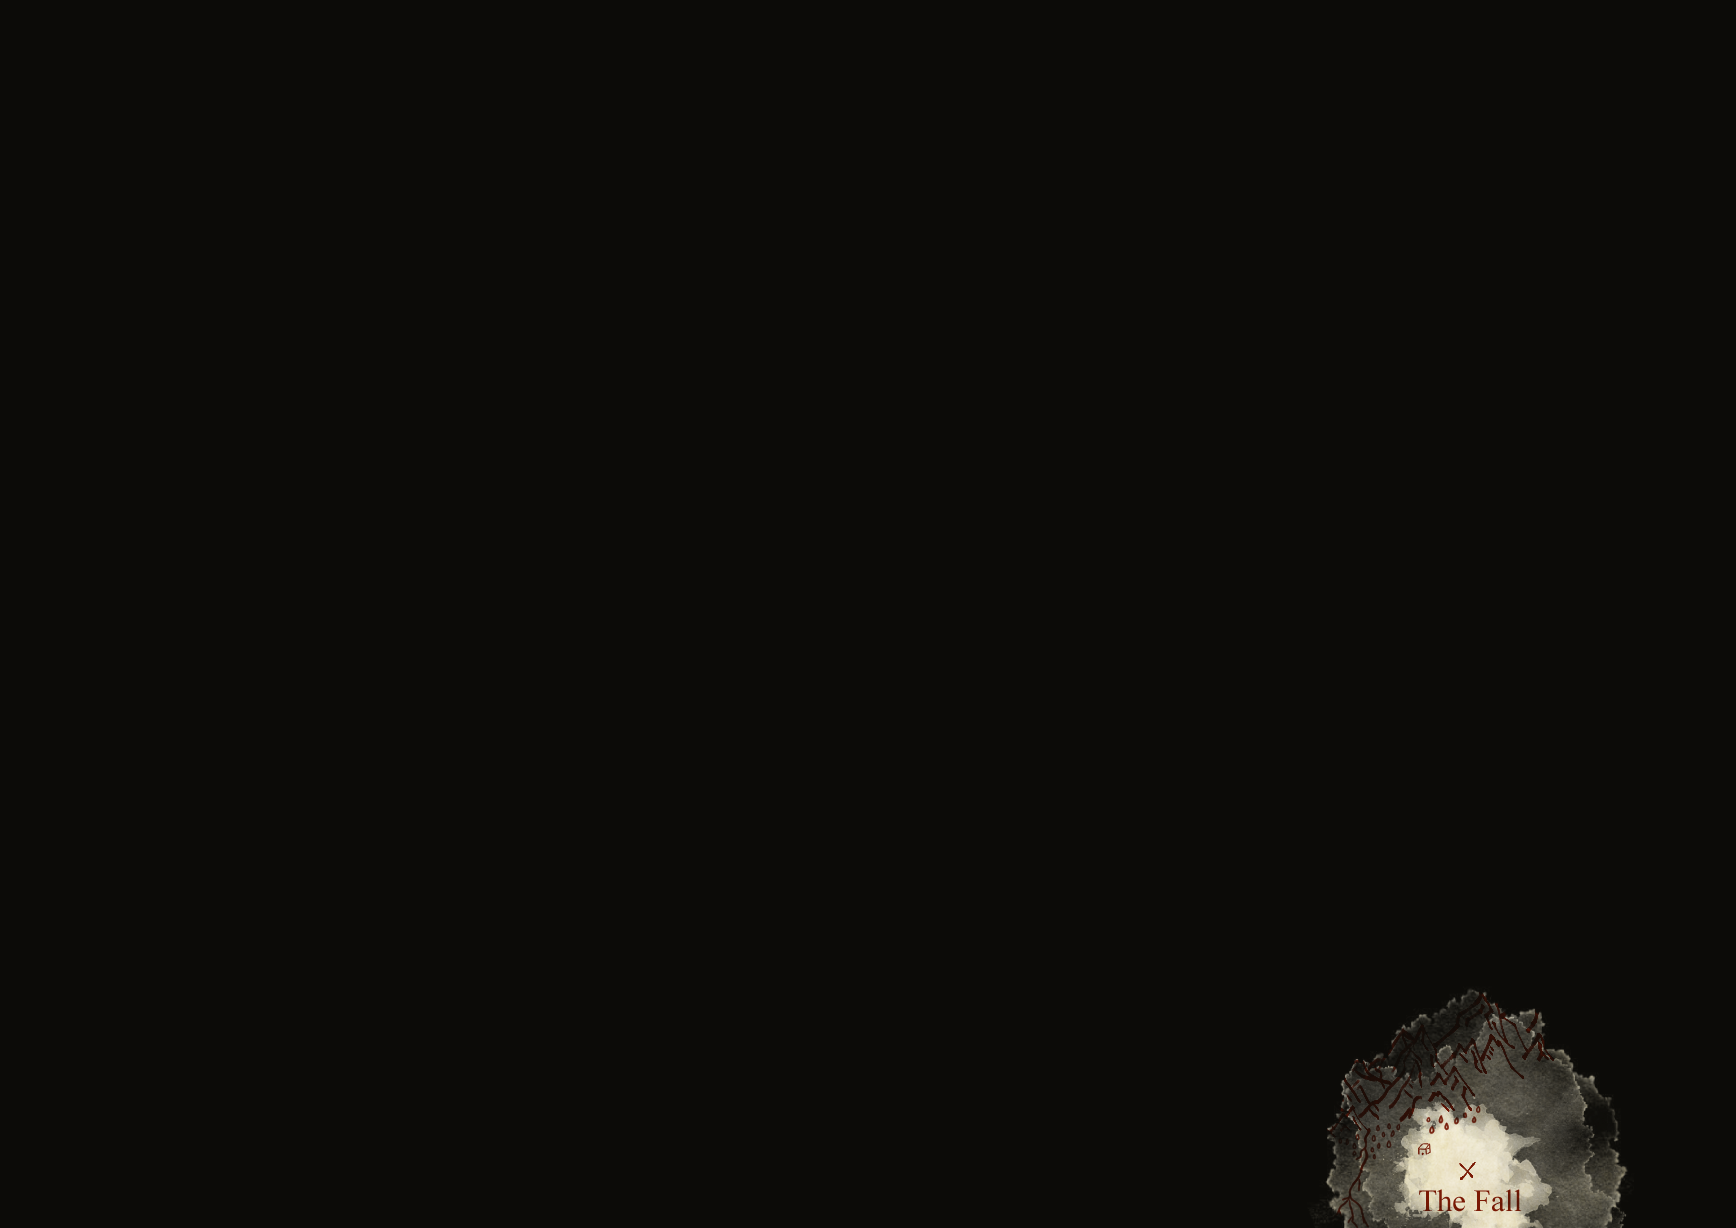
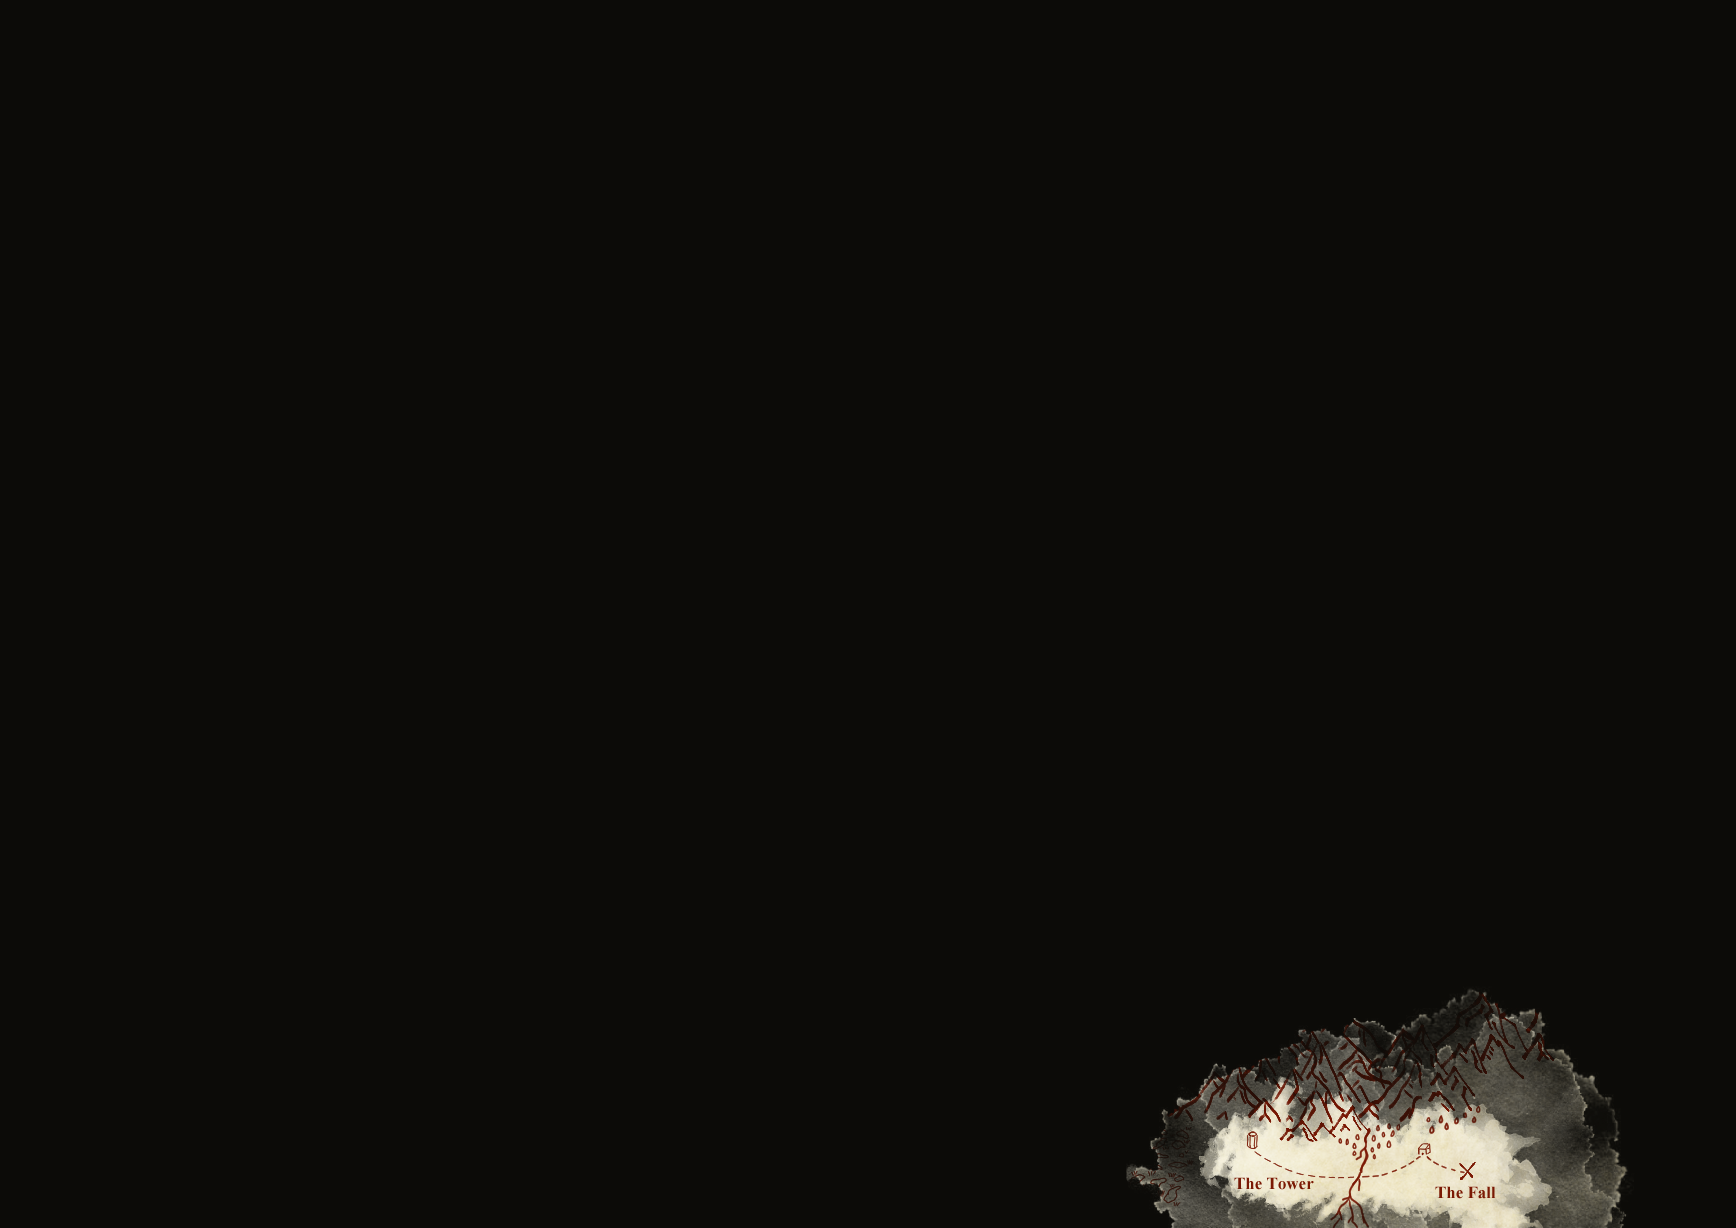
updating items and (hopefully) map

Changed region(s): [[0.6532, 0.8355, 0.871, 1.0]]

diff --git a/pages/crafting.md b/pages/crafting.md
@@ -38,4 +38,7 @@ permalink: '/crafting/'
     <div>
     {% include card_flip.html item="Lantern <br>of Revealing" content="Rarity: Uncommon <br> Base: Lantern  <br> Component: Fey Eye [Harpy Matriarch] <br> Time: 10 Hours <br><br> While lit, this lantern burns for <b>6 hours</b> on 1 pint of oil, shedding <i>bright light</i> in a <b>30-foot radius</b> and <i>dim light</i> for an additional <b>30 feet</b>. <i>Invisible</i> creatures and objects are visible as long as they are in the lantern's bright light." url="https://github.com/Npjthomas/The_Imperium/blob/main/items/Card_Lantern_of_Revealing.png?raw=true" %} 
     </div>
+        <div>
+    {% include card_flip.html item="Heliana's Guide <br>to Monster Hunting" content="Rarity: Uncommon <br><br>As an action, you can open this scroll and stare intently at it, which displays an anatomical diagram of the corpse nearest to the book. You immediately learn any parts unique to the moster, or which will yeild unique items during crafting. <br>As an action, you can place an object that belonged to a creature—such as its scat, scales, or clothing— between the pages of this book. One minute later, the book tells you one piece of information about the creature. At the GM’s discretion, this may be: its saving throw proficiencies, damage resistances, immunities, and vulnerabilities; condition immunities; creature’s type; one of its traits; or one of the clues acquired during a hunt. Placing more objects that belonged to that creature (or a creature with the same statblock) yields no further results." url="https://github.com/Npjthomas/The_Imperium/blob/main/items/Card_Back.png?raw=true" %} 
+    </div>
 </div>

diff --git a/pages/inventory.md b/pages/inventory.md
@@ -6,8 +6,8 @@ permalink: '/inventory/'
 
 ### Statistics
 
-#### Days Traveled: 9
-#### Distance Traveled: 160 miles
+#### Days Traveled: 12
+#### Distance Traveled: 170 miles
 #### Legionnaires: 17
 #### Citizens: 30
 
@@ -38,6 +38,7 @@ permalink: '/inventory/'
 |Fey &emsp; &emsp;|Phial of Blood         &emsp; &emsp; |Centaur       &emsp; &emsp;| 1           |
 |Fey &emsp; &emsp;|Liver         &emsp; &emsp; |Centaur       &emsp; &emsp;| 1           |
 |Fey &emsp; &emsp;|Heart         &emsp; &emsp; |Centaur       &emsp; &emsp;| 1           |
+|Construct &emsp; &emsp;|Lifespark         &emsp; &emsp; |Marble Golem       &emsp; &emsp;| 1           |
 
 ### Mundane Materials
 
@@ -62,6 +63,9 @@ permalink: '/inventory/'
 
 |Item         |Quantity       |
 |:------------|:-------------:|
+|Predator's Whistle &emsp; &emsp; |1       |
 |Arrow of Covella &emsp; &emsp; |4       |
 |Libation of Calm Waters &emsp; &emsp;| 1       |
 |Draught of Invigoration &emsp; &emsp;| 1       |
+|Heliana's Guide to Monster Hunting (Abridged) &emsp; &emsp;| 1       |
+
